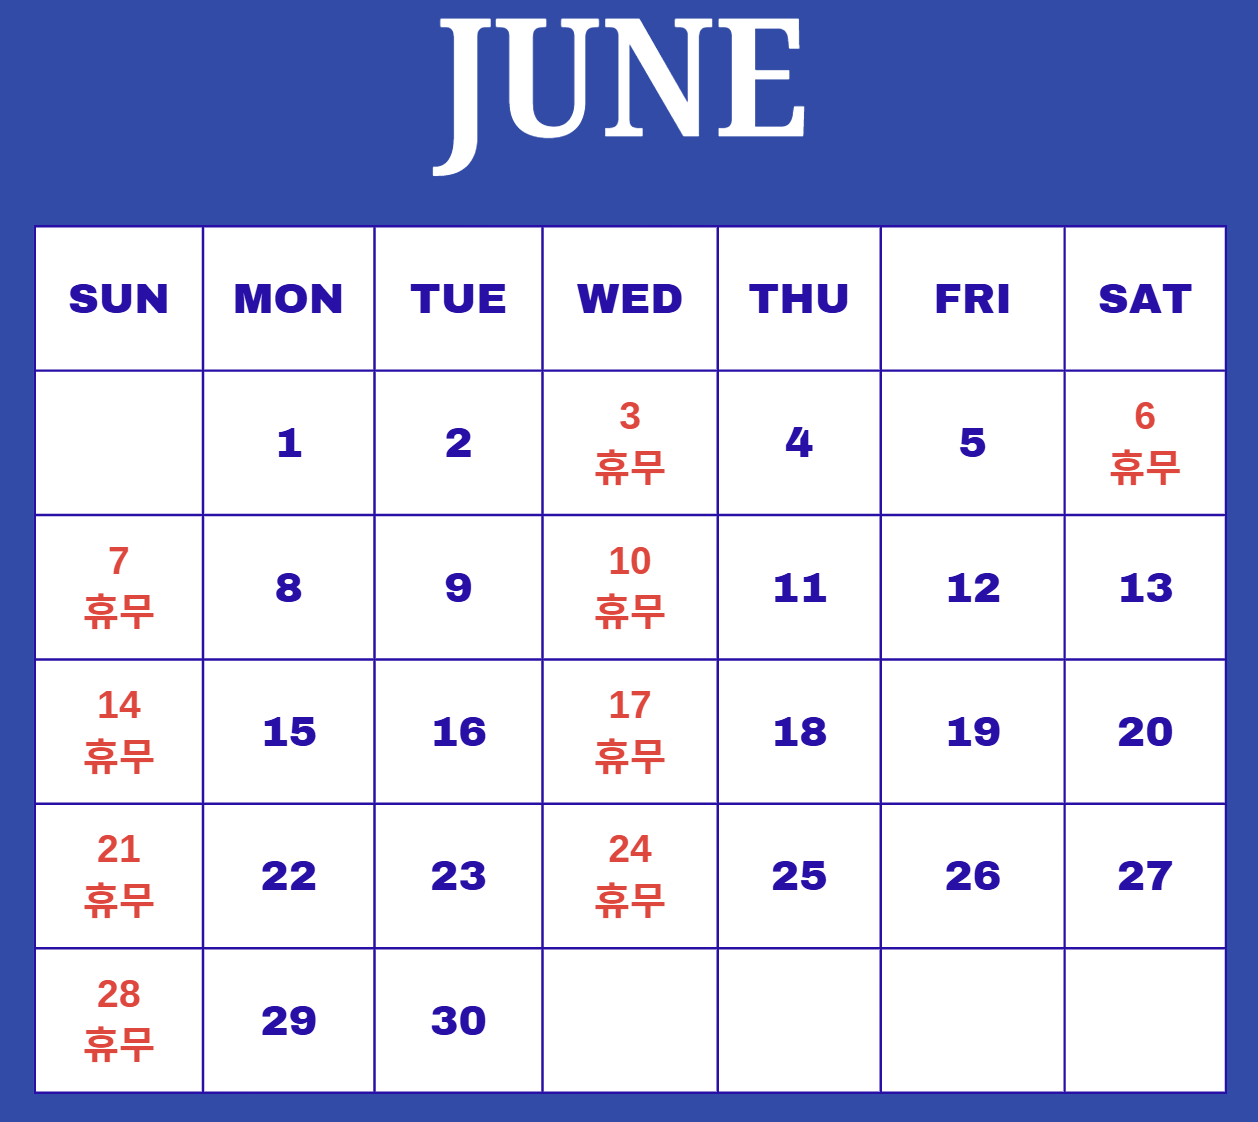
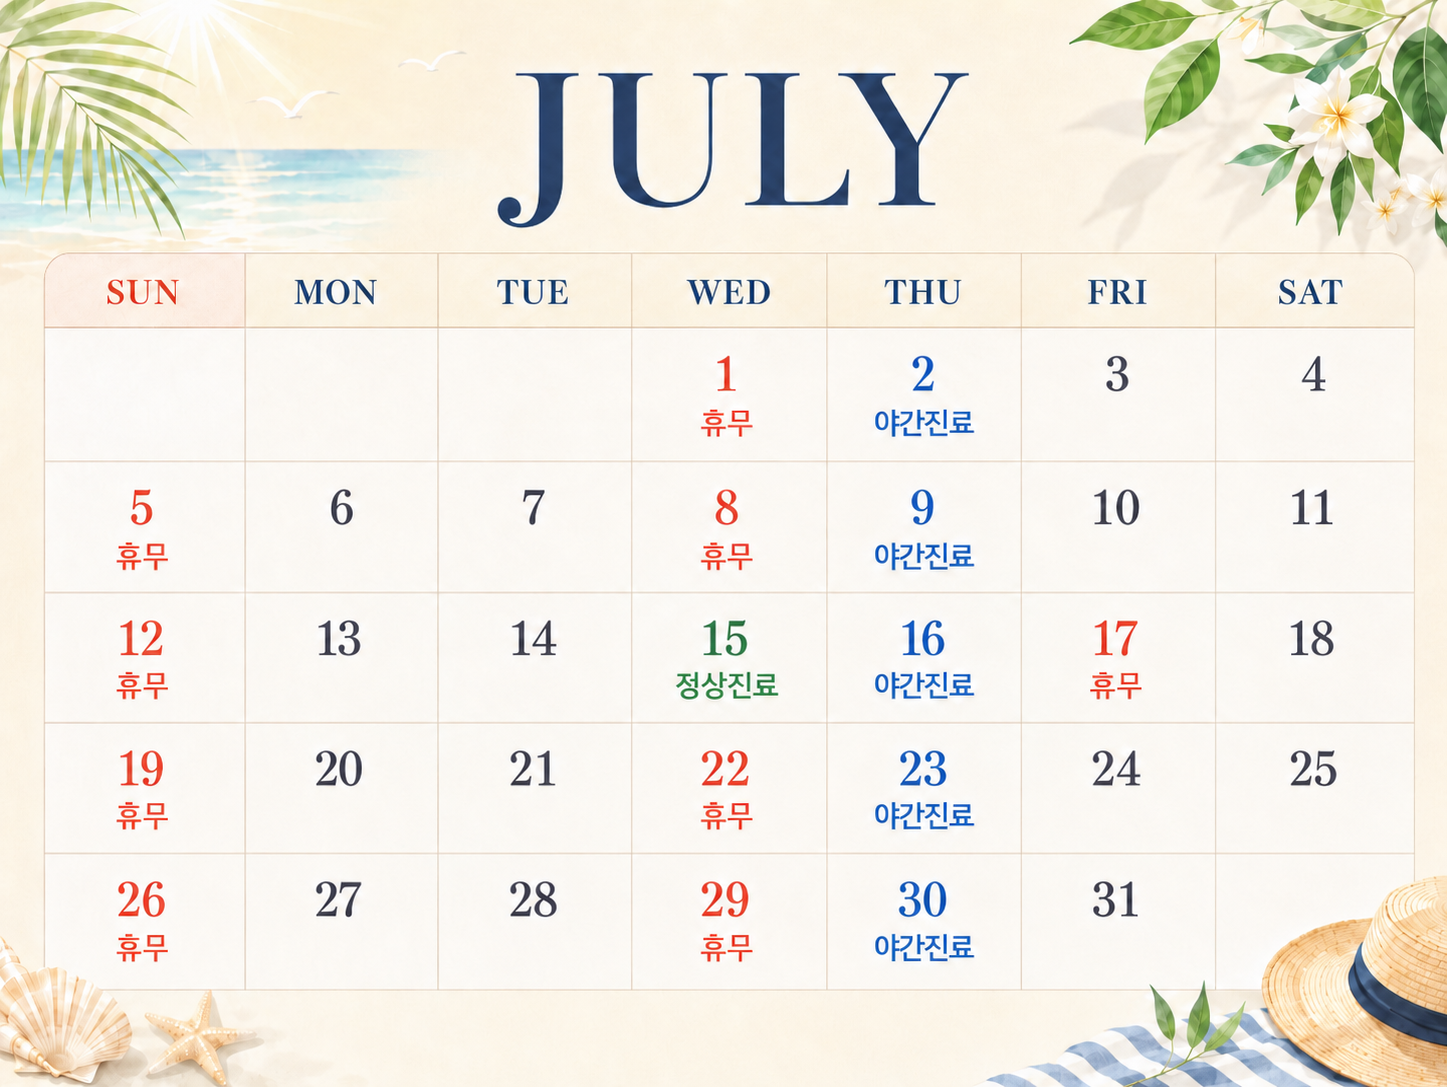
7월 달력

diff --git a/index.html b/index.html
@@ -132,7 +132,7 @@
           </div>
      </div>
 
-     <!-- 이벤트 팝업 2 -->
+     <!-- 이벤트 팝업 2
      <div class="modal fade" id="mainPopup2" tabindex="-1" role="dialog" aria-labelledby="popupLabel2"
           aria-hidden="true">
           <div class="modal-dialog modal-dialog-centered" role="document"
@@ -162,7 +162,7 @@
                     </div>
                </div>
           </div>
-     </div>
+     </div>-->
 
 
      <section class="preloader">
